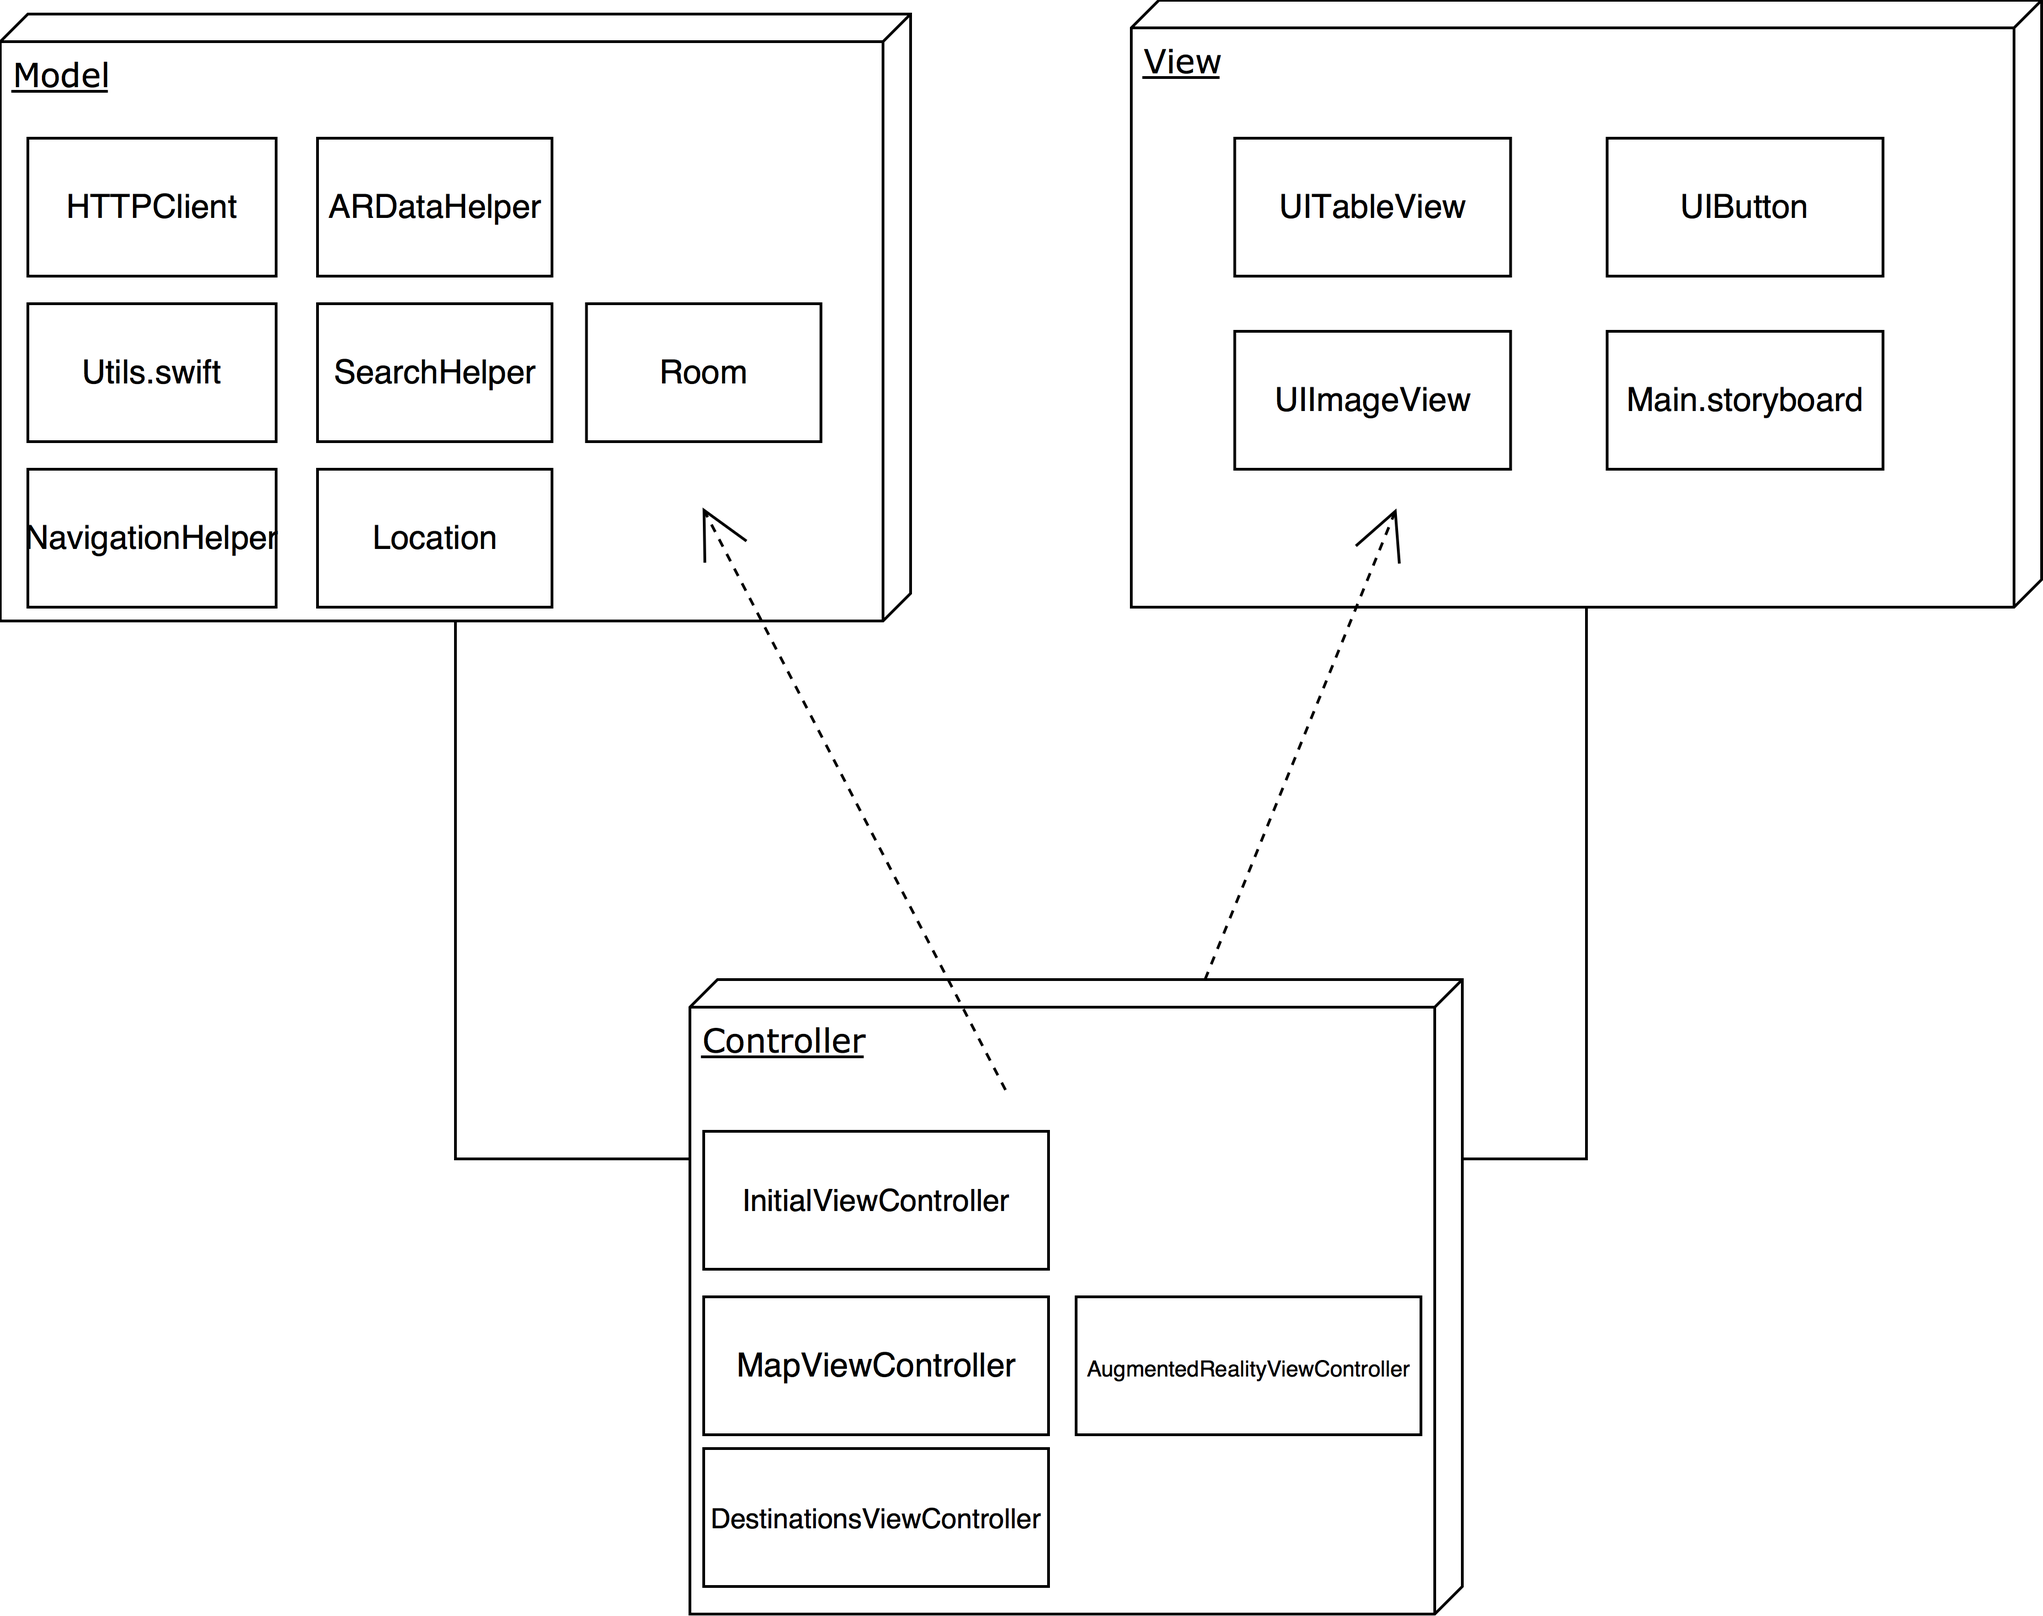
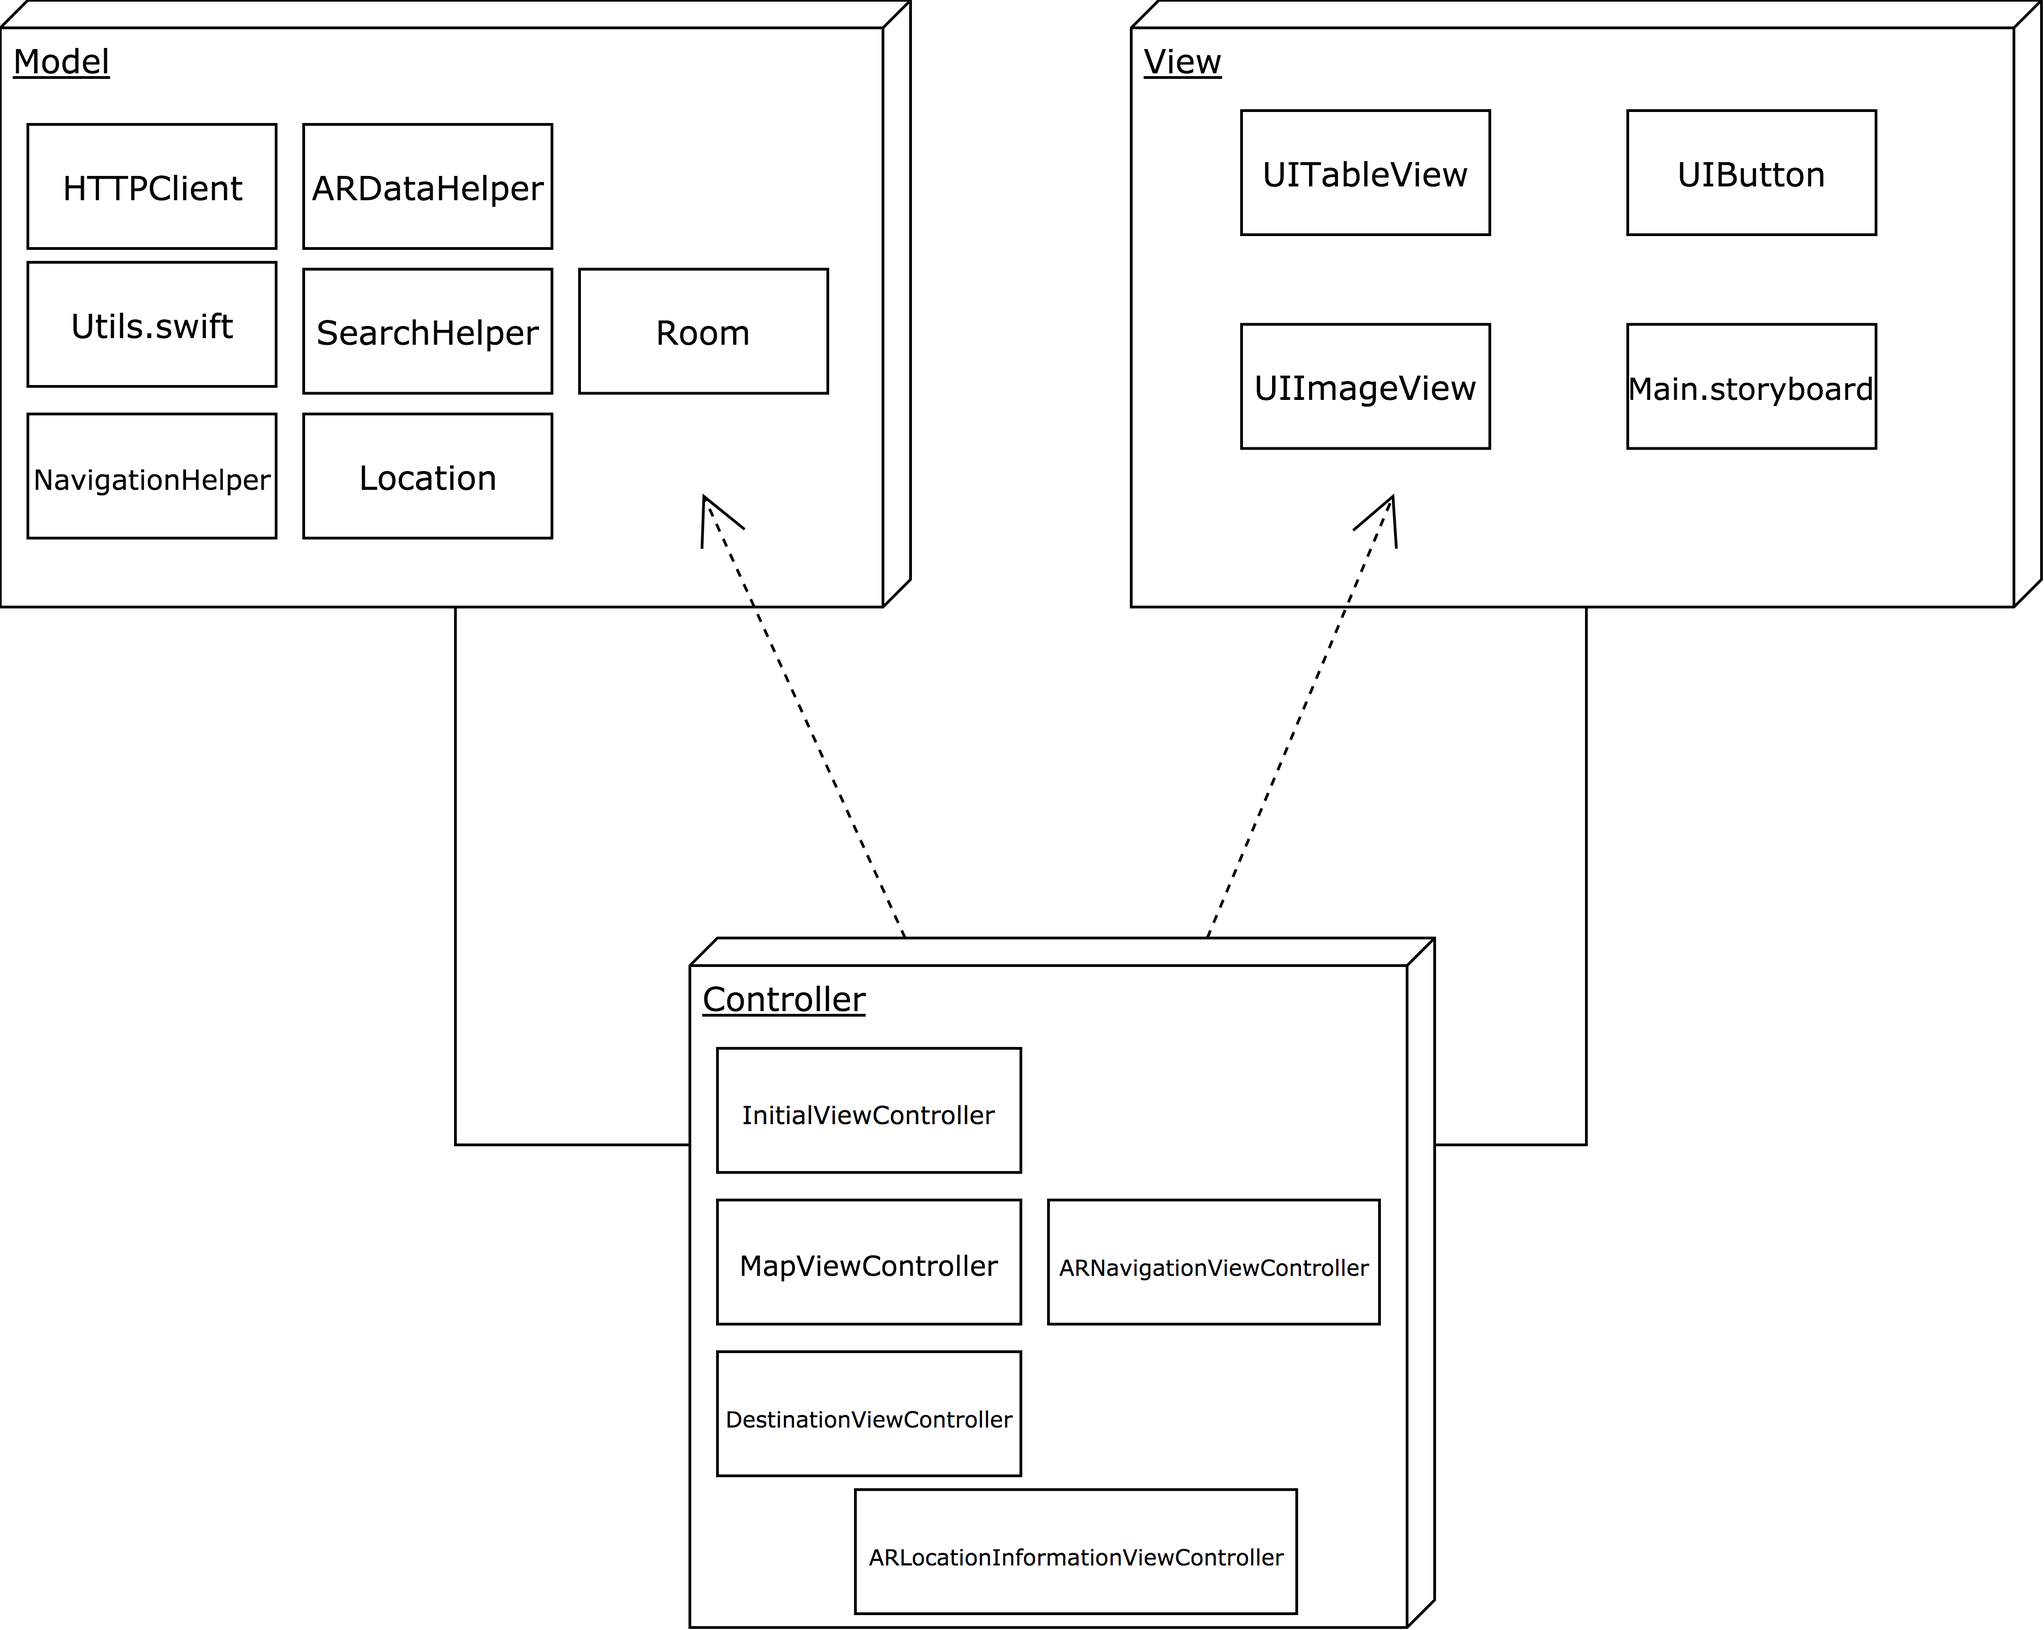
Abstract, added AR in implementation, finishing AR in results

diff --git a/Implementation&Testing/implementation.tex b/Implementation&Testing/implementation.tex
@@ -480,7 +480,7 @@ This class is similar to the one from the admin application. The methods defined
 This view controller is the main entry of the application. On loading, it calculates the user's current position using the IndoorLocationManager, and loads the corresponding floor plan, based on the user's location.
 
 \subsubsection*{MapViewController.swift}
-This view controller is composed of an UIImageView of the floor plan, where the user's location will be shown. The top part contains two UIButtons, from where the user can get to the DestinationViewController, which allows them to choose a destination, or to switch to the augmented reality mode.
+This view controller is composed of an UIImageView of the floor plan, where the user's location will be shown. The top part contains two UIButtons, from where the user can get to the DestinationViewController, which allows them to choose a destination, or to switch to the AR mode.
 
 Upon selecting a destination, a path will be drawn on the screen from the user's current position, to the destination. This is performed using CoreGraphics, a framework part of iOS which aids with drawing basic elements. First, the application will iterate through all the points which are part of the path, and will draw a line between each two of them, in order. The following code illustrates the drawing function:
 
@@ -500,3 +500,22 @@ func addLine(fromPoint start: CGPoint, toPoint end: CGPoint, in view: UIView) {
 
 \subsubsection*{DestinationsViewController.swift}
 This view controller has been implemented using a UITableView and a UISearchController. The UITableView shows all the rooms available on the current floor, which are fetched using the SearchHelper. The UISearchController is composed of a search bar which sits at the top of the table and is used to query the database for matching results, using again the SearchHelper. Selecting one room will bring the user back to the MapViewController, from where a path will be drawn on the screen, as previously described.
+
+\subsubsection*{ARNavigationViewController.swift}
+This view controller is the first one part of the AR mode, and aims to help users navigate, by showing an AR object made of an arrow, which points to the direction they need to follow. In order to know which direction the arrow needs to point to, the bearing angle between the current position and the destination position is calculated. This is done by using the latitude and longitude and values. Values from the mobile phone's compass are continuously received and used to rotate the arrow based on the user's orientation.
+
+\subsubsection*{ARLocationInformationViewController.swift}
+The second part of the AR mode is made of this view controller, which shows timetable information and the availability of computers in the computer labs that are close to the user's current position. First, the mobile app requests the closest locations in each room, based on the current position, and then it requests information for each of them. Images are returned for the timetables, and a JSON with the availability of the computers is returned from PC-Free. This is done using the AR Data Provided. Finally, the AR elements are placed using the ARKit+CoreLocation library, using the latitude and longitude values received from the back-end server.
+
+\section{Testing}
+In order to deliver quality solutions and products, the software produced needs to be thoroughly tested. The system developed is composed of a multitude of components and subsystems. Each of them need to tested individually, and then as a whole, to ensure that they run correctly.
+
+\subsection{Unit Testing}
+Unit testing is usually used to guarantee that the methods part of a component are producing the intended results. These kinds of tests are important when used to test a system in an isolated way, especially when they interact with other systems, because they can detect where the problem comes from. 
+
+All the model classes that are part of the server that manages the database have benefited from unit testing. These tests have made sure that given an input, they create the right entity, with the right values. The same strategy has been applied to the Scan Switch server, which temporarily stores scanning data used for path finding. 
+
+The positioning system has initially been tested manually, but to ensure that it runs correctly, unit tests have been created in order to check that the user is positioned correctly. For the path finding algorithm, the HTTP client has been replaced with a mock one, that returns manually created data. This data is composed of real world location from across the globe, with set latitude and longitude values. The connections between these locations have been also created manually, in order to test if the route between two of them is chosen correctly. In the graph created, there are multiple ways to navigate from point A to point B, all with different distances. In other words, the test had made sure that the route chosen is the one with the shortest distance.
+
+\subsection{Integration between mobile applications and servers}
+The mobile applications are very UI heavy, because the models are part of the servers. This is usually harder to test by unit testing. Therefore, testing these apps has been done manually, by making sure that the visual elements are placed in the right positions, and the data that they show is right. Moreover, to ensure the integration between the apps and the servers, which is done through the multitude of REST APIs, all the resources that can be accessed through the REST APIs have been thoroughly tested using Postman (an API development environment, which allows API testing). 

diff --git a/Evaluation/evaluation.tex b/Evaluation/evaluation.tex
@@ -27,15 +27,24 @@ The second scenario the algorithm has been tested was when data has not been mea
     \label{fig:ips-unknown-loc}
 \end{figure}
 
-\section{Navigation Algorithm Analysis}
-
-The testing approach for the navigation algorithm has been the same as the one for the IPS. The algorithm has been tested first with locations in the same room, then between two adjacent rooms, and then from wing to wing. In order to test the algorithm, convenient positions have been recorded in order for the path to be shown in a user friendly way on the floor plan (e.g. in front of doors; in this way the path will line up perfectly on the screen and they will not be placed on top of walls). One of the large scale tests has been from the end of the South Wing to my supervisor's office. It can be seen in figure 6.3 that the algorithm has been successful in finding a path between the two locations.
+\section{Path Finding Algorithm Analysis}
+The testing approach for the path finding algorithm has been the same as the one for the IPS. The algorithm has been tested first with locations in the same room, then between two adjacent rooms, and then from wing to wing. In order to test the algorithm, convenient positions have been recorded in order for the path to be shown in a user friendly way on the floor plan (e.g. in front of doors; in this way the path will line up perfectly on the screen and they will not be placed on top of walls). One of the large scale tests has been from the end of the South Wing to my supervisor's office. It can be seen in figure 6.3 that the algorithm has been successful in finding a path between the two locations.
 
 \begin{figure}[H]
     \centering
     \fbox{\includegraphics[width=180px, height=280px]{Evaluation/long-path.png}}
     \caption{Long path between a computer lab in the South Wing and an office on the North Wing of Bush House. The square in blue represents the current position of the user and the squares in red represent the way-points to follow. The last red square represents the destination.}
     \label{fig:nav-long-path}
+\end{figure}
+
+\section{AR Features Results}
+Another big part of the project has been composed of the two AR features that the project has aimed to meet. In combination with the path finding algorithm, the first AR feature facilitates the navigation process by showing the direction to follow, based on the smartphone's built-in compass. The user mobile apps has managed to show the proposed visual cue, but its bearing angle has proved to be many times inaccurate. The magnetic field created by the multitude radio networks from the Wi-Fi networks, together with the magnetic field produced by the Raspberry Pi, which needs to be in the proximity of the smartphone are causing reflections. However, the angle corrects itself when moving around, because this allows time for the compass to calibrate. In figure \ref{fig:ar-arrow} it can be observed the direction that is suggested by the user app to follow in order to exit the computer lab, and reach the corridor.
+
+\begin{figure}[H]
+    \centering
+    \includegraphics[width=180px, height=320px]{Evaluation/AR-arrow.png}
+    \caption{Screen shot taken from the user mobile app which shows the guidance arrow for navigation}
+    \label{fig:ar-arrow}
 \end{figure}
 
 \section{Project Evaluation}
@@ -68,7 +77,7 @@ When taking into consideration the requirements set in chapter 4, it can be said
 % In results, talk about the overhead that the HTTP request bring for example to the positioning algorithm, or even the navigation algorithm.
 
 \section{Comparison to other existing solutions}
-When it comes to compare the functionalities and capabilities, along with the way of working of the application built, the most suitable comparison would be with "Indoor Survey App" \cite{apple-indoor-survey}. The comparison with the application built by Apple is the most relevant, since the way of measuring data for location is very similar, but our solution provides an arguably better and more extensible system.
+When comparing the functionalities and capabilities, along with the way of working of the application built, the most suitable comparison would be with "Indoor Survey App" \cite{apple-indoor-survey}. The comparison with the application built by Apple is the most relevant, since the way of measuring data for location is very similar, but our solution provides an arguably better and more extensible system.
 
 The most important comparison that can be made with Apple's solution is the architecture of the system. A very important aspect to remember is that Indoor Survey App provides positioning and measuring for any building that follows their specific requirements, whereas our solution only supports Bush House. However, this is a feature that can be easily added on top of the existing capabilities, since our system has been developed with extensibility in mind.
 

diff --git a/Legal/legal.tex b/Legal/legal.tex
@@ -1,5 +1,5 @@
 \section{British Computing Society Code of Conduct}
-The British Computing Society (BCS\nomenclature{BCS}{British Computing Society}) has published a Code of Conduct\footnote{The code is available online at \texttt{\url{http://www.bcs.org/category/6030}}}, in order to set the required standards that an individual has to follow, in order to be a member. Throughout developing the project, these standards has been closely followed, and the project is fully compliant with them. There are four standards that the project follows:
+The British Computing Society (BCS\nomenclature{BCS}{British Computing Society}) has published a Code of Conduct\footnote{The code is available online at \texttt{\url{http://www.bcs.org/category/6030}}}, in order to set the required standards that an individual has to follow, in order to be a member. Throughout developing the project, these standards have been closely followed, and the project is fully compliant with them. There are four standards that the project follows:
 \begin{itemize}
     \item \textbf{Public Interest}: The system and the applications built are available for everyone to use, regardless of sex, sexual orientation, marital status, nationality, colour, race, ethnic origin, religion, age or disability, or of any other condition or requirement. Moreover, the intellectual property of all the third parties are fully respected; their work is referenced to in this paper and the code components that belong to them have a clear specification of whom they belong to.
     \item \textbf{Professional Competence and Integrity}: The project has allowed the developer involved to develop new skills and learn new concepts that have been applied here. Learning has been done in a continuous basis throughout the project. The project does no harm to anyone, and the project has not taken part into bribery or unethical inducements.

diff --git a/FrontMatter/abstract.tex b/FrontMatter/abstract.tex
@@ -1,1 +1,5 @@
-This is my abstract.
+The recent developments in smartphone technology, such as Wi-Fi technologies have made it possible to build very accurate indoor positioning systems. Moreover, the recent development of powerful mobile chips has facilitated advancements in areas such as augmented reality.
+
+This paper will propose an indoor positioning system that uses a fingerprinting approach to map Bush House, one of King's College London buildings, using the available floor plans for it. Additionally, the project aims to provide a better navigation experience for users, by adding augmented reality visual cues, and provide information for nearby reference points, i.e. computer labs.
+
+Using the proposed localisation method, an accuracy of under 5 meters is achieved. The system is able to find a path in under 2-3 seconds, and show augmented reality objects built with information from King's College London timetable service and PC-Free@King's. Finally, the system has an extensible design, separated in a multitude of independent subsystems, that can be easily replaced, regardless of the platform. Furthermore, the design of the indoor positioning system can be used for any building, given the available floor plans, if small adjustments are made.

diff --git a/Design/design.tex b/Design/design.tex
@@ -88,7 +88,7 @@ The user application is designed following an MVC pattern as well. The component
 
 \begin{figure}[H]
     \centering
-    \fbox{\includegraphics[width=420px, height=332px]{Design/User-MVC.png}}
+    \fbox{\includegraphics[width=420px, height=335px]{Design/User-MVC.png}}
     \centering
     \caption{User Application MVC Design. The design is split into model, view and controller. The rectangles inside each component represent the classes that are part of it.}
     \label{fig:user-mvc}

diff --git a/main.tex b/main.tex
@@ -130,7 +130,7 @@
 \chapter{Design}
 \subfile{Design/design}
 \newpage
-\chapter{Implementation}
+\chapter{Implementation \& Testing}
 \subfile{Implementation&Testing/implementation}
 \newpage
 \chapter{Evaluation}
